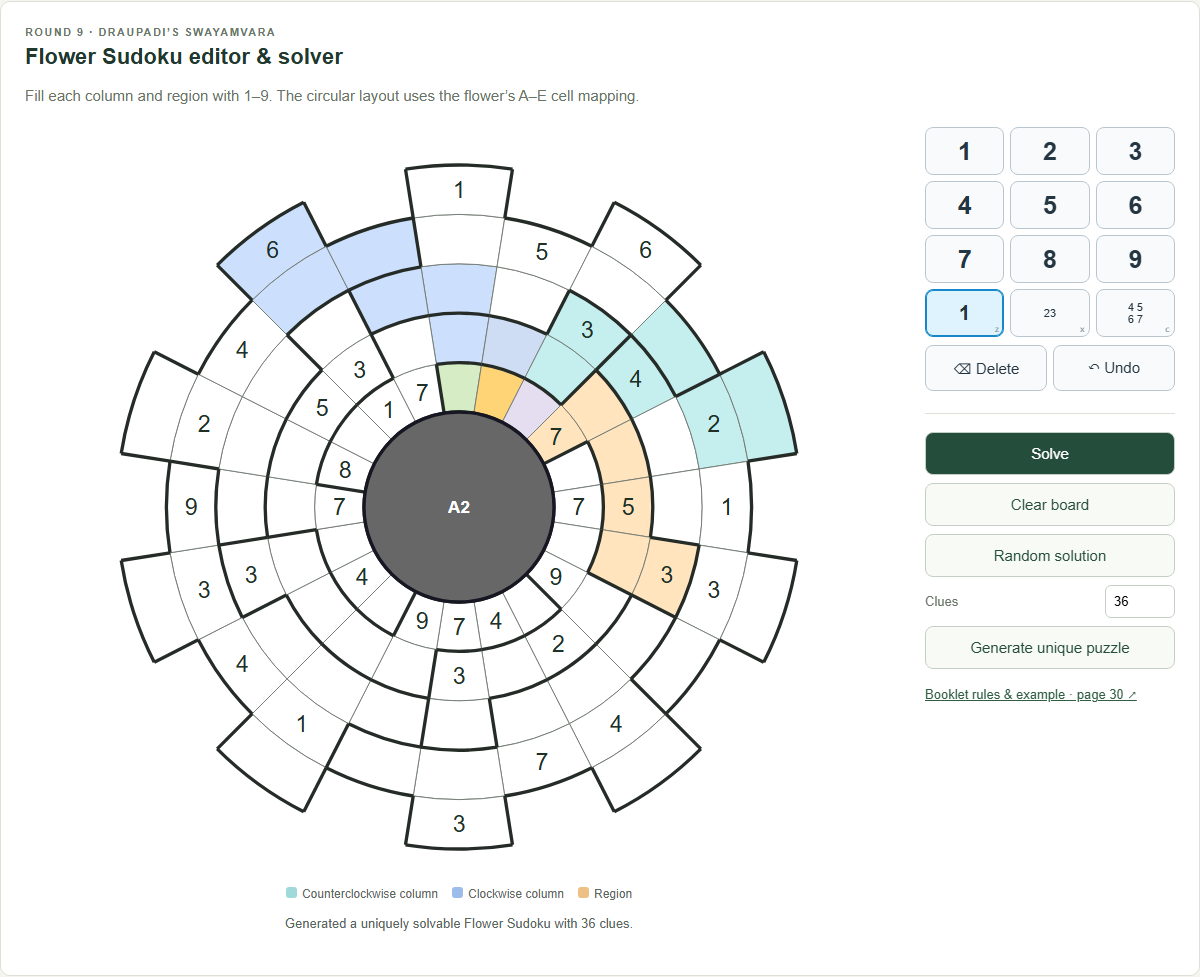
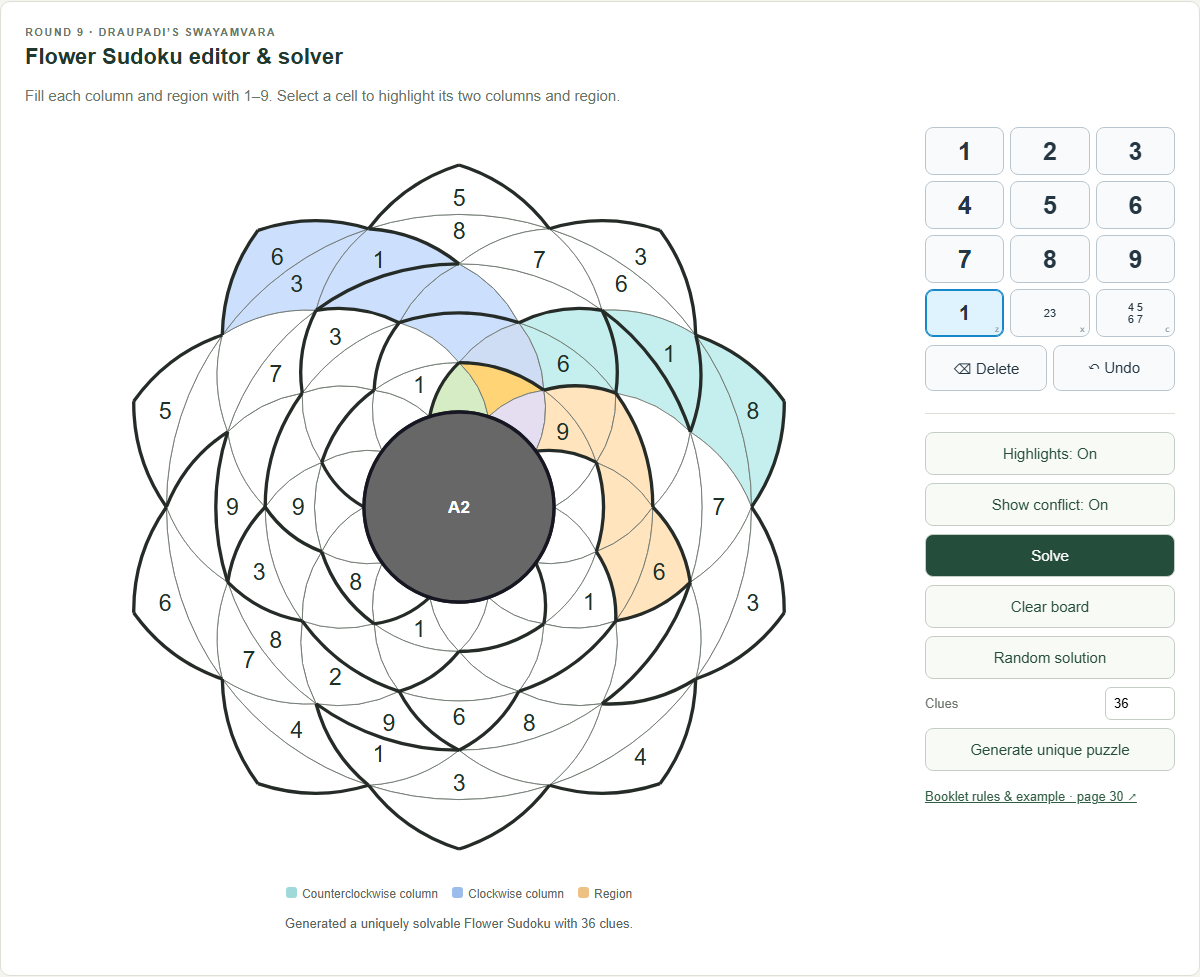
flower polished

diff --git a/docs/src/FlowerSudokuTool.svelte b/docs/src/FlowerSudokuTool.svelte
@@ -1,12 +1,14 @@
 <script lang="ts">
  import SudokuAnswerControls from './SudokuAnswerControls.svelte';
  import { FLOWER_CELL_COUNT, flowerLabel, flowerConflicts, solveFlower, randomFlowerSolution, generateFlowerPuzzle } from './wsc2026/flowerSudoku.mjs';
- import { FLOWER_CENTER as CENTER, FLOWER_GEOMETRIES, FLOWER_REGION_BORDERS, flowerHighlightMask } from './wsc2026/flowerGeometry.mjs';
+ import { FLOWER_CENTER as CENTER, FLOWER_LAYOUTS, flowerHighlightMask } from './wsc2026/flowerGeometry.mjs';
  const EMPTY = () => Array(FLOWER_CELL_COUNT).fill(0);
  const EMPTY_NOTES = () => Array.from({length:FLOWER_CELL_COUNT},()=>[] as number[]);
  let values = EMPTY(), centerNotes = EMPTY_NOTES(), cornerNotes = EMPTY_NOTES();
  let selected = 0, solution: number[] | null = null, generationClues = 36;
  let mode: 'normal'|'center'|'corner' = 'normal';
+ const geometryLayout = FLOWER_LAYOUTS.petals;
+ let showHighlights = true, showConflicts = true;
  let activeFeature: 'solution'|'generated'|null = null;
  let history: any[] = [];
  let message = 'Select a cell and enter a digit. Each cell belongs to two columns and one region.';
@@ -46,7 +48,7 @@
  function clearBoard() {remember();values=EMPTY();centerNotes=EMPTY_NOTES();cornerNotes=EMPTY_NOTES();selected=0;solution=null;activeFeature=null;message='Board cleared.';}
  function solve() {
   const result=solveFlower(values); if(result.solution)remember(); solution=result.solution;activeFeature='solution';
-  message=result.status==='solved'?'Completion shown in blue.':result.status==='invalid'?'Fix the highlighted repeated digits first.':result.status==='limit'?'Search limit reached. Add more digits and try again.':'No solution fits these entries.';
+  message=result.status==='solved'?'Completion shown in blue.':result.status==='invalid'?'Fix the repeated digits first.':result.status==='limit'?'Search limit reached. Add more digits and try again.':'No solution fits these entries.';
  }
  function makeRandomSolution() {
   const result=randomFlowerSolution();
@@ -61,26 +63,29 @@
 </script>
 
 <section class="flower-tool" aria-labelledby="flower-title">
- <header><p class="eyebrow">ROUND 9 · DRAUPADI’S SWAYAMVARA</p><h2 id="flower-title">Flower Sudoku editor &amp; solver</h2><p>Fill each column and region with 1–9. The circular layout uses the flower’s A–E cell mapping.</p></header>
+ <header><p class="eyebrow">ROUND 9 · DRAUPADI’S SWAYAMVARA</p><h2 id="flower-title">Flower Sudoku editor &amp; solver</h2><p>Fill each column and region with 1–9. Select a cell to highlight its two columns and region.</p></header>
  <div class="flower-layout">
   <div class="editor">
    <svg viewBox="0 0 800 800" role="group" aria-label="90-cell Flower Sudoku board">
-    {#each FLOWER_GEOMETRIES as geometry,index}
+    {#each geometryLayout.geometries as geometry,index}
      {@const displayed=values[index] || (activeFeature==='solution'?solution?.[index]:0)}
-     <path id={`flower-cell-${index}`} d={geometry.path} class="cell" style:fill={conflicts.has(index)?'#f5b8ad':selected===index?'#ffd477':highlightColors[flowerHighlightMask(selected,index)]} role="button" aria-label={`${labels[index]}${values[index]?`, digit ${values[index]}`:', empty'}`} aria-pressed={selected===index} tabindex={selected===index?0:-1} onclick={event=>select(index,event)} onfocus={()=>selected=index} onkeydown={event=>keydown(event,index)}/>
+     <path id={`flower-cell-${index}`} d={geometry.path} class="cell" style:fill={showConflicts&&conflicts.has(index)?'#f5b8ad':selected===index?'#ffd477':showHighlights?highlightColors[flowerHighlightMask(selected,index)]:'#fff'} role="button" aria-label={`${labels[index]}${values[index]?`, digit ${values[index]}`:', empty'}`} aria-pressed={selected===index} tabindex={selected===index?0:-1} onclick={event=>select(index,event)} onfocus={()=>selected=index} onkeydown={event=>keydown(event,index)}/>
+     <path d={geometry.outline} class="cell-outline"/>
      {#if displayed}<text x={geometry.center.x} y={geometry.center.y} class="digit" class:solved-digit={!values[index]}>{displayed}</text>
      {:else}
       {#if centerNotes[index].length}<text x={geometry.center.x} y={geometry.center.y} class="notes">{centerNotes[index].join('')}</text>{/if}
       {#if cornerNotes[index].length}<text x={geometry.center.x} y={geometry.center.y-13} class="notes corner">{cornerNotes[index].join('')}</text>{/if}
      {/if}
     {/each}
-    {#each FLOWER_REGION_BORDERS as border}<path d={border} class="region-border"/>{/each}
+    {#each geometryLayout.borders as border}<path d={border} class="region-border"/>{/each}
     <circle cx={CENTER} cy={CENTER} r="100" class="hub"/><text x={CENTER} y={CENTER} class="hub-label">{labels[selected]}</text>
    </svg>
-   <div class="unit-legend" aria-label="Selected cell constraints"><span class="ccw">Counterclockwise column</span><span class="cw">Clockwise column</span><span class="region">Region</span></div>
+   {#if showHighlights}<div class="unit-legend" aria-label="Selected cell constraints"><span class="ccw">Counterclockwise column</span><span class="cw">Clockwise column</span><span class="region">Region</span></div>{/if}
    <p class="status" aria-live="polite">{message}</p>
   </div>
   <SudokuAnswerControls {mode} canUndo={history.length>0} onDigit={enter} onMode={next=>mode=next} onDelete={()=>enter(0)} onUndo={undo}>
+   <button aria-pressed={showHighlights} onclick={()=>showHighlights=!showHighlights}>Highlights: {showHighlights?'On':'Off'}</button>
+   <button aria-pressed={showConflicts} onclick={()=>showConflicts=!showConflicts}>Show conflict: {showConflicts?'On':'Off'}</button>
    <button class="primary" onclick={solve}>Solve</button>
    <button onclick={clearBoard}>Clear board</button>
    <button onclick={makeRandomSolution}>Random solution</button>
@@ -92,5 +97,6 @@
 </section>
 
 <style>
- .flower-tool{margin:24px 0;padding:24px;background:#fff;border:1px solid #dce1d6;border-radius:10px;color:#20382e}h2{margin:0 0 8px;font-size:22px}header>p:not(.eyebrow){color:#697467;line-height:1.5}.eyebrow{font-size:11px;font-weight:700;letter-spacing:1.4px;color:#6a7869;margin:0 0 6px}.flower-layout{display:grid;grid-template-columns:minmax(0,1fr) 250px;gap:32px;align-items:start;margin-top:20px}.editor{min-width:0;width:100%;max-width:760px;margin:auto}svg{display:block;width:100%;height:auto;touch-action:none}.cell{stroke:#737b74;stroke-width:1;cursor:pointer}.cell:focus{outline:none}.digit{font:500 24px Inter,Arial,sans-serif;text-anchor:middle;dominant-baseline:central;fill:#1f3027;pointer-events:none}.notes{font:500 12px Inter,Arial,sans-serif;text-anchor:middle;dominant-baseline:central;fill:#3a5947;pointer-events:none}.corner{font-size:10px}.solved-digit{fill:#2469bf}.region-border{fill:none;stroke:#252b27;stroke-width:3.5;stroke-linejoin:round;pointer-events:none}.hub{fill:#676767;stroke:#171723;stroke-width:3.5}.hub-label{font:700 18px Inter,Arial,sans-serif;fill:#fff;text-anchor:middle;dominant-baseline:central;pointer-events:none}.unit-legend{display:flex;gap:14px;justify-content:center;flex-wrap:wrap;font-size:12px;color:#5e695f}.unit-legend span::before{content:'';display:inline-block;width:11px;height:11px;margin-right:5px;border-radius:3px}.ccw::before{background:#9fd9d9}.cw::before{background:#9cbceb}.region::before{background:#edc184}.status{min-height:24px;text-align:center;font-size:13px;color:#59675d;line-height:1.5}@media(max-width:760px){.flower-tool{padding:16px}.flower-layout{grid-template-columns:1fr;gap:20px}}
+ .cell-outline{fill:none;stroke:#737b74;stroke-width:1;pointer-events:none}
+ .flower-tool{margin:24px 0;padding:24px;background:#fff;border:1px solid #dce1d6;border-radius:10px;color:#20382e}h2{margin:0 0 8px;font-size:22px}header>p:not(.eyebrow){color:#697467;line-height:1.5}.eyebrow{font-size:11px;font-weight:700;letter-spacing:1.4px;color:#6a7869;margin:0 0 6px}.flower-layout{display:grid;grid-template-columns:minmax(0,1fr) 250px;gap:32px;align-items:start;margin-top:20px}.editor{min-width:0;width:100%;max-width:760px;margin:auto}svg{display:block;width:100%;height:auto;touch-action:none}.cell{stroke:none;cursor:pointer}.cell:focus{outline:none}.digit{font:500 24px Inter,Arial,sans-serif;text-anchor:middle;dominant-baseline:central;fill:#1f3027;pointer-events:none}.notes{font:500 12px Inter,Arial,sans-serif;text-anchor:middle;dominant-baseline:central;fill:#3a5947;pointer-events:none}.corner{font-size:10px}.solved-digit{fill:#2469bf}.region-border{fill:none;stroke:#252b27;stroke-width:3.5;stroke-linejoin:round;pointer-events:none}.hub{fill:#676767;stroke:#171723;stroke-width:3.5}.hub-label{font:700 18px Inter,Arial,sans-serif;fill:#fff;text-anchor:middle;dominant-baseline:central;pointer-events:none}.unit-legend{display:flex;gap:14px;justify-content:center;flex-wrap:wrap;font-size:12px;color:#5e695f}.unit-legend span::before{content:'';display:inline-block;width:11px;height:11px;margin-right:5px;border-radius:3px}.ccw::before{background:#9fd9d9}.cw::before{background:#9cbceb}.region::before{background:#edc184}.status{min-height:24px;text-align:center;font-size:13px;color:#59675d;line-height:1.5}@media(max-width:760px){.flower-tool{padding:16px}.flower-layout{grid-template-columns:1fr;gap:20px}}
 </style>
